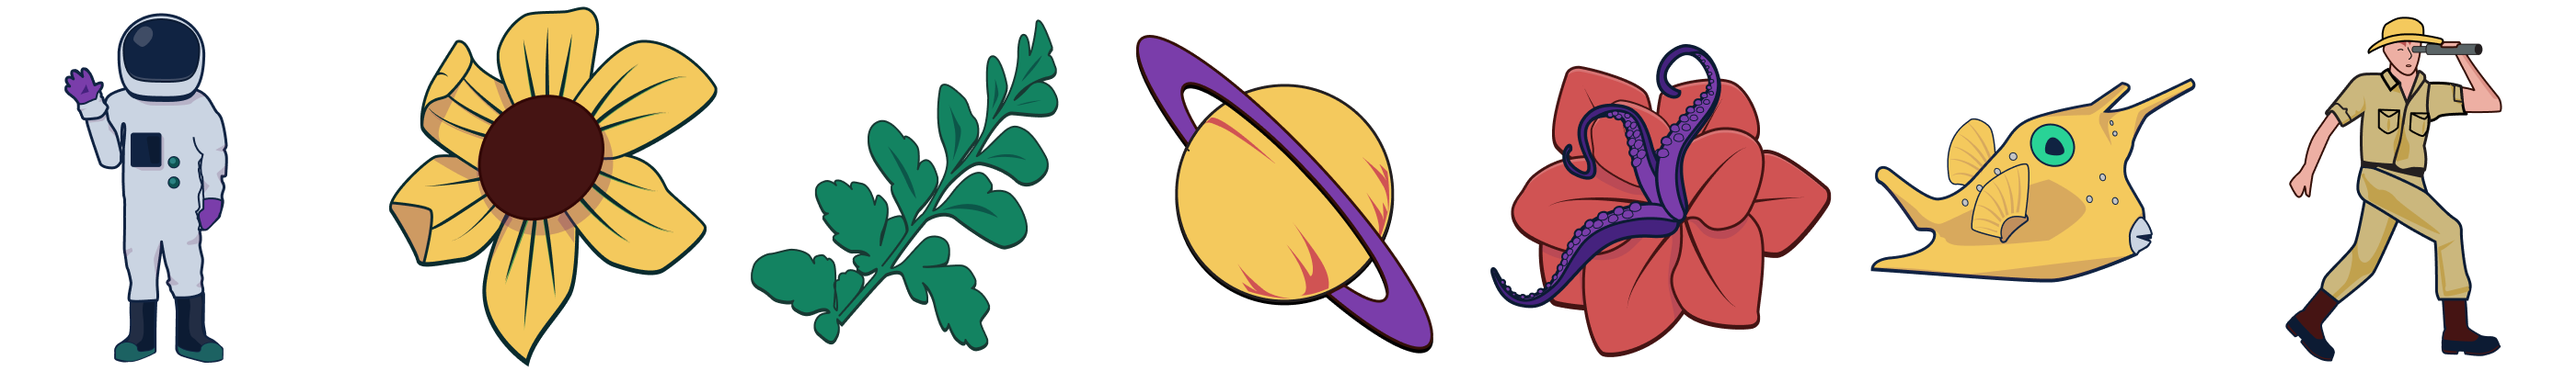
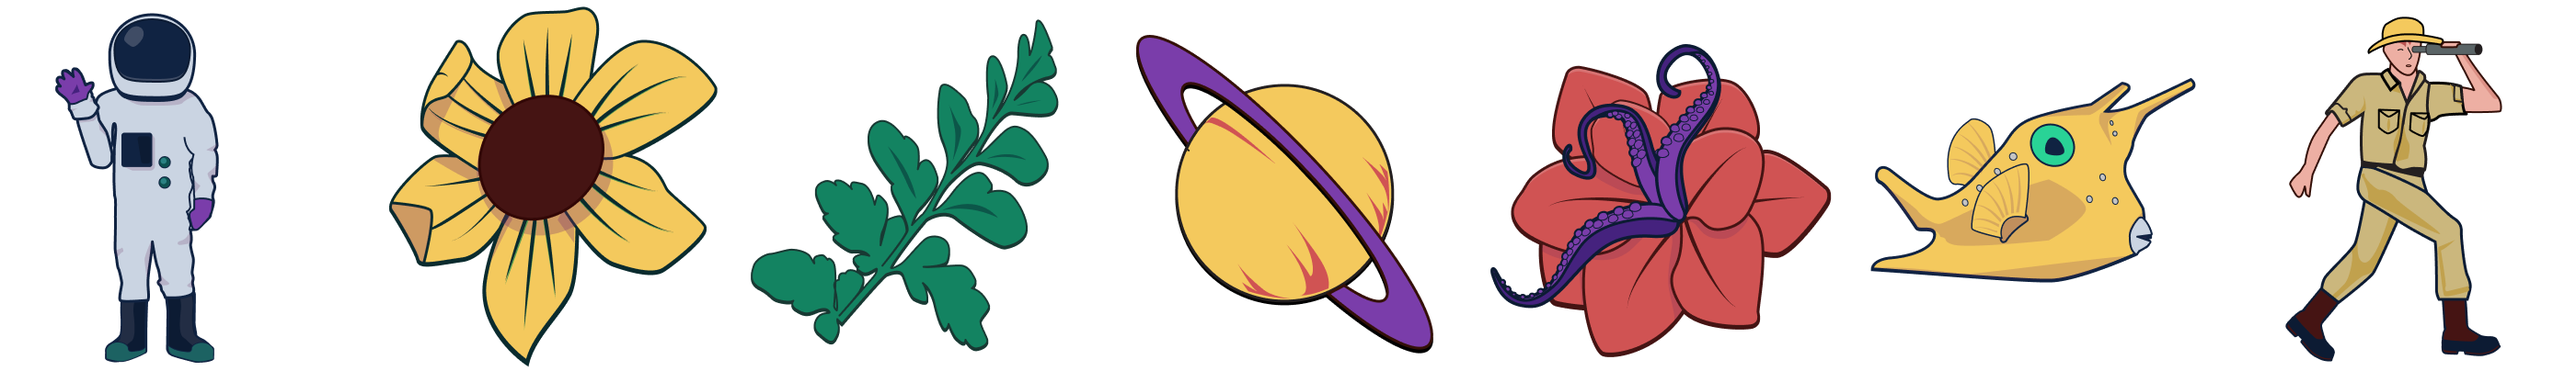
Copy

Changed region(s): [[0.0, 0.0297, 0.0932, 0.9802]]

diff --git a/src/pages/index.tsx b/src/pages/index.tsx
@@ -174,7 +174,7 @@ const IndexPage = () => {
           Jane M. Spikowski + Robert W. Nolan III are getting married on
           Saturday, April 30th 2022.
         </p>
-        <p>We'd love for you to join us for our special day.</p>
+        <p>We'd love for you to join us on our special day.</p>
         <Description>
           <strong>Ceremony — 3pm</strong>
           <br />
@@ -228,7 +228,7 @@ const IndexPage = () => {
       >
         J+R
       </h1>
-      <Icon style={{ transform: "rotate(180deg)" }} />
+      <Icon style={{ transform: "rotate(180deg)", marginLeft: -20 }} />
     </main>
   );
 };

diff --git a/src/components/icon.tsx b/src/components/icon.tsx
@@ -8,7 +8,7 @@ const Wrapper = styled.div`
   background-size: cover;
   height: 90px;
   width: 90px;
-  margin-left: -5px;
+  margin-left: -10px;
 `;
 
 const Icon = ({ style = {} }) => {
